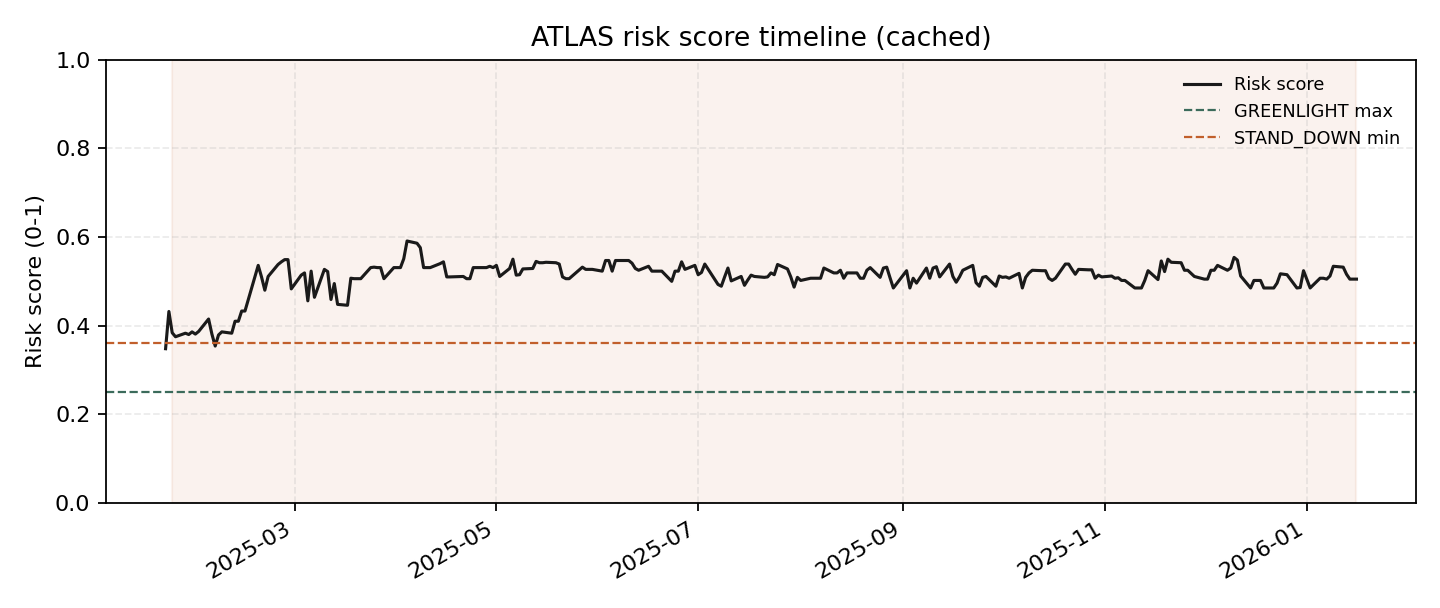
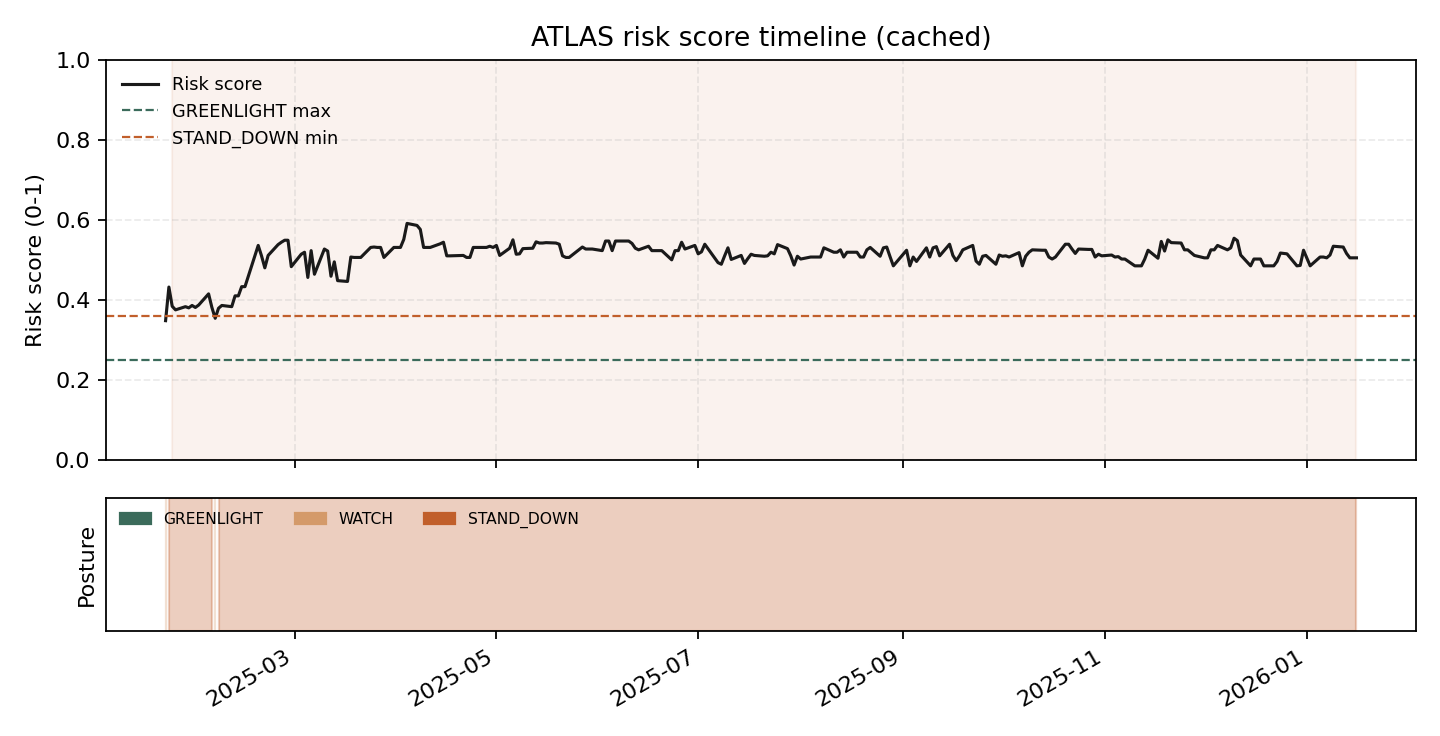
docs: show ML workflow and agent outputs

diff --git a/frontend/src/App.tsx b/frontend/src/App.tsx
@@ -189,12 +189,17 @@ const FIGURES = [
   {
     title: 'SPY close (cached)',
     src: '/figures/spy_close.png',
-    caption: 'Matplotlib snapshot generated from cached OHLCV data.',
+    caption: 'Matplotlib candlesticks generated from cached OHLCV data.',
   },
   {
     title: 'Risk score timeline',
     src: '/figures/risk_scores.png',
     caption: 'Aggregated risk score with GREENLIGHT/WATCH/STAND_DOWN thresholds.',
+  },
+  {
+    title: 'Agent risk lenses',
+    src: '/figures/agent_scores.png',
+    caption: 'Top agent score traces showing which lenses drive uncertainty over time.',
   },
 ];
 
@@ -500,6 +505,11 @@ function App() {
                 <p>{agent.focus}</p>
               </div>
             ))}
+          </div>
+
+          <div className="margin-note">
+            Research note: an optional ML lab can explore Qlib factors, RD-Agent discovery, and LLM parameter ideas
+            offline. These experiments are sandboxed and never used in the Track II demo.
           </div>
         </section>
 

diff --git a/scripts/generate_matplotlib_figures.py b/scripts/generate_matplotlib_figures.py
@@ -4,10 +4,11 @@ from __future__ import annotations
 import argparse
 import csv
 import json
+import math
 import os
 from datetime import datetime
 from pathlib import Path
-from typing import List, Tuple
+from typing import Dict, List, Tuple
 
 
 def _repo_root() -> Path:
@@ -26,8 +27,9 @@ def _parse_dt(value: str) -> datetime:
         return datetime.fromisoformat(v[:10])
 
 
-def _read_candles(path: Path) -> Tuple[List[datetime], List[float], List[float], List[float]]:
+def _read_candles(path: Path) -> Tuple[List[datetime], List[float], List[float], List[float], List[float]]:
     dates: List[datetime] = []
+    opens: List[float] = []
     highs: List[float] = []
     lows: List[float] = []
     closes: List[float] = []
@@ -41,24 +43,26 @@ def _read_candles(path: Path) -> Tuple[List[datetime], List[float], List[float],
                 continue
             try:
                 dates.append(_parse_dt(date))
+                opens.append(float(row.get("open", 0)))
                 highs.append(float(row.get("high", 0)))
                 lows.append(float(row.get("low", 0)))
                 closes.append(float(row.get("close", 0)))
             except ValueError:
                 continue
-    return dates, highs, lows, closes
+    return dates, opens, highs, lows, closes
 
 
-def _read_risk_scores(path: Path) -> Tuple[List[datetime], List[float], List[bool]]:
+def _read_risk_scores(path: Path) -> Tuple[List[datetime], List[float], List[bool], List[str]]:
     payload = json.loads(path.read_text())
     windows = payload.get("windows") or []
     if not windows:
-        return [], [], []
+        return [], [], [], []
     steps = windows[0].get("steps") or []
 
     dates: List[datetime] = []
     scores: List[float] = []
     stress_flags: List[bool] = []
+    labels: List[str] = []
     for step in steps:
         time = step.get("time")
         if not time:
@@ -71,9 +75,10 @@ def _read_risk_scores(path: Path) -> Tuple[List[datetime], List[float], List[boo
             dates.append(_parse_dt(time))
             scores.append(float(score))
             stress_flags.append(bool(step.get("is_stress")))
+            labels.append(str(quant.get("label", "")))
         except ValueError:
             continue
-    return dates, scores, stress_flags
+    return dates, scores, stress_flags, labels
 
 
 def _compress_stress_ranges(dates: List[datetime], flags: List[bool]) -> List[Tuple[datetime, datetime]]:
@@ -88,6 +93,61 @@ def _compress_stress_ranges(dates: List[datetime], flags: List[bool]) -> List[Tu
     if start is not None:
         ranges.append((start, dates[-1]))
     return ranges
+
+
+def _compress_label_ranges(
+    dates: List[datetime], labels: List[str]
+) -> List[Tuple[str, datetime, datetime]]:
+    ranges: List[Tuple[str, datetime, datetime]] = []
+    if not dates or not labels:
+        return ranges
+    current = labels[0]
+    start = dates[0]
+    for idx, label in enumerate(labels[1:], start=1):
+        if label != current:
+            ranges.append((current, start, dates[idx - 1]))
+            current = label
+            start = dates[idx]
+    ranges.append((current, start, dates[-1]))
+    return ranges
+
+
+def _read_agent_scores(path: Path) -> Tuple[List[datetime], Dict[str, List[float]]]:
+    payload = json.loads(path.read_text())
+    windows = payload.get("windows") or []
+    if not windows:
+        return [], {}
+    steps = windows[0].get("steps") or []
+
+    dates: List[datetime] = []
+    agent_scores: Dict[str, List[float]] = {}
+    nan = float("nan")
+
+    for step in steps:
+        time = step.get("time")
+        if not time:
+            continue
+        quant = step.get("quant_team") or {}
+        agents = quant.get("agents") or {}
+
+        try:
+            dates.append(_parse_dt(time))
+        except ValueError:
+            continue
+
+        # Extend existing series with NaN for this step
+        for name in agent_scores:
+            agent_scores[name].append(nan)
+
+        idx = len(dates) - 1
+        for name, meta in agents.items():
+            if name not in agent_scores:
+                agent_scores[name] = [nan] * idx
+                agent_scores[name].append(nan)
+            val = meta.get("score")
+            agent_scores[name][idx] = float(val) if val is not None else nan
+
+    return dates, agent_scores
 
 
 def main() -> int:
@@ -120,37 +180,79 @@ def main() -> int:
     matplotlib.use("Agg")
     import matplotlib.dates as mdates
     import matplotlib.pyplot as plt
+    from matplotlib.patches import Patch, Rectangle
 
     price_csv = Path(args.price_csv)
     eval_json = Path(args.eval_json)
     output_dir = Path(args.output_dir)
     output_dir.mkdir(parents=True, exist_ok=True)
 
-    dates, highs, lows, closes = _read_candles(price_csv)
+    dates, opens, highs, lows, closes = _read_candles(price_csv)
     if args.max_rows and len(dates) > args.max_rows:
         dates = dates[-args.max_rows :]
+        opens = opens[-args.max_rows :]
         highs = highs[-args.max_rows :]
         lows = lows[-args.max_rows :]
         closes = closes[-args.max_rows :]
 
     if dates:
         fig, ax = plt.subplots(figsize=(9, 3.8))
-        ax.fill_between(dates, lows, highs, color="#c15f2b", alpha=0.12, label="Daily range")
-        ax.plot(dates, closes, color="#3b6b5b", linewidth=1.6, label="Close")
-        ax.set_title("SPY closing price (cached)")
+        x = mdates.date2num(dates)
+        width = 0.6
+        up = "#3b6b5b"
+        down = "#c15f2b"
+
+        for idx, x_i in enumerate(x):
+            open_v = opens[idx]
+            close_v = closes[idx]
+            high_v = highs[idx]
+            low_v = lows[idx]
+            color = up if close_v >= open_v else down
+
+            ax.vlines(x_i, low_v, high_v, color=color, linewidth=1.0)
+            rect_y = min(open_v, close_v)
+            rect_h = abs(close_v - open_v)
+            if rect_h == 0:
+                rect_h = max(0.02, 0.001 * max(1.0, open_v))
+            ax.add_patch(
+                Rectangle(
+                    (x_i - width / 2, rect_y),
+                    width,
+                    rect_h,
+                    facecolor=color,
+                    edgecolor=color,
+                    alpha=0.85,
+                )
+            )
+
+        ax.set_title("SPY candlestick chart (cached)")
         ax.set_ylabel("Price")
         ax.grid(True, linestyle="--", alpha=0.25)
         ax.xaxis.set_major_formatter(mdates.DateFormatter("%Y-%m"))
         fig.autofmt_xdate()
-        ax.legend(frameon=False, fontsize=8)
+        ax.legend(
+            handles=[
+                Patch(facecolor=up, edgecolor=up, label="Up day"),
+                Patch(facecolor=down, edgecolor=down, label="Down day"),
+            ],
+            frameon=False,
+            fontsize=8,
+        )
         fig.tight_layout()
         fig.savefig(output_dir / "spy_close.png", dpi=160)
         plt.close(fig)
 
     if eval_json.exists():
-        risk_dates, scores, stress_flags = _read_risk_scores(eval_json)
+        risk_dates, scores, stress_flags, labels = _read_risk_scores(eval_json)
         if risk_dates:
-            fig, ax = plt.subplots(figsize=(9, 3.8))
+            fig, (ax, ax2) = plt.subplots(
+                2,
+                1,
+                figsize=(9, 4.6),
+                sharex=True,
+                gridspec_kw={"height_ratios": [3, 1]},
+            )
+
             ax.plot(risk_dates, scores, color="#1a1a1a", linewidth=1.4, label="Risk score")
             ax.axhline(0.25, color="#3b6b5b", linestyle="--", linewidth=1.0, label="GREENLIGHT max")
             ax.axhline(0.36, color="#c15f2b", linestyle="--", linewidth=1.0, label="STAND_DOWN min")
@@ -162,12 +264,75 @@ def main() -> int:
             ax.set_ylabel("Risk score (0-1)")
             ax.set_ylim(0, 1)
             ax.grid(True, linestyle="--", alpha=0.25)
-            ax.xaxis.set_major_formatter(mdates.DateFormatter("%Y-%m"))
+            ax.legend(frameon=False, fontsize=8, loc="upper left")
+
+            posture_colors = {
+                "GREENLIGHT": "#3b6b5b",
+                "WATCH": "#d49a6a",
+                "STAND_DOWN": "#c15f2b",
+            }
+            for label, start, end in _compress_label_ranges(risk_dates, labels):
+                color = posture_colors.get(label, "#999999")
+                ax2.axvspan(start, end, color=color, alpha=0.3)
+
+            ax2.set_ylim(0, 1)
+            ax2.set_yticks([])
+            ax2.set_ylabel("Posture")
+            ax2.grid(False)
+            ax2.legend(
+                handles=[
+                    Patch(facecolor=posture_colors["GREENLIGHT"], edgecolor=posture_colors["GREENLIGHT"], label="GREENLIGHT"),
+                    Patch(facecolor=posture_colors["WATCH"], edgecolor=posture_colors["WATCH"], label="WATCH"),
+                    Patch(facecolor=posture_colors["STAND_DOWN"], edgecolor=posture_colors["STAND_DOWN"], label="STAND_DOWN"),
+                ],
+                frameon=False,
+                fontsize=7,
+                loc="upper left",
+                ncol=3,
+            )
+
+            ax2.xaxis.set_major_formatter(mdates.DateFormatter("%Y-%m"))
             fig.autofmt_xdate()
-            ax.legend(frameon=False, fontsize=8)
             fig.tight_layout()
             fig.savefig(output_dir / "risk_scores.png", dpi=160)
             plt.close(fig)
+
+        agent_dates, agent_scores = _read_agent_scores(eval_json)
+        if agent_dates and agent_scores:
+            # Pick top agents by score variance (most dynamic).
+            variability: List[Tuple[str, float]] = []
+            for name, series in agent_scores.items():
+                values = [v for v in series if not math.isnan(v)]
+                if len(values) < 2:
+                    continue
+                avg = sum(values) / len(values)
+                var = sum((v - avg) ** 2 for v in values) / len(values)
+                variability.append((name, var))
+            top = [name for name, _ in sorted(variability, key=lambda x: x[1], reverse=True)[:5]]
+
+            if top:
+                fig, ax = plt.subplots(figsize=(9, 3.8))
+                palette = ["#3b6b5b", "#c15f2b", "#5c6f91", "#d2a650", "#7a5c8e"]
+
+                for idx, name in enumerate(top):
+                    ax.plot(
+                        agent_dates,
+                        agent_scores[name],
+                        linewidth=1.2,
+                        color=palette[idx % len(palette)],
+                        label=name,
+                    )
+
+                ax.set_title("Top agent risk lenses (cached)")
+                ax.set_ylabel("Agent score (0-1)")
+                ax.set_ylim(0, 1)
+                ax.grid(True, linestyle="--", alpha=0.25)
+                ax.xaxis.set_major_formatter(mdates.DateFormatter("%Y-%m"))
+                fig.autofmt_xdate()
+                ax.legend(frameon=False, fontsize=7, ncol=2)
+                fig.tight_layout()
+                fig.savefig(output_dir / "agent_scores.png", dpi=160)
+                plt.close(fig)
 
     print(f"Wrote figures to {output_dir}")
     return 0

diff --git a/README.md b/README.md
@@ -136,6 +136,16 @@ See `safety_ethics.md` for formal safety, ethics, and age-appropriate design com
 - `research/` contains optional Qlib/R&D experiments (not required for Track II)
 - Install extras with `python3 -m pip install -r requirements-research.txt`
 
+## Optional ML strategy lab (research-only)
+For transparency on the ML components, the repo includes a research-only
+strategy lab that backtests simple templates on cached data and can accept
+optional Qlib/RD-Agent/LLM parameter ideas. This is sandboxed and does not
+affect Track II outputs.
+
+```bash
+python3 research/strategy_lab.py --symbol SPY --asset-class equities
+```
+
 ## Repo map
 - `Agents/ATLAS_HYBRID/`: primary runnable demo (multi-agent risk desk, simulation-only)
 - `frontend/`: optional React + TypeScript UI

diff --git a/Team Authorized Narrative.md b/Team Authorized Narrative.md
@@ -33,6 +33,11 @@ ATLAS uses multiple small, interpretable agents rather than a black-box model. E
 
 The aggregation step prioritizes safety. Any high-risk veto can force STAND_DOWN. This mirrors real-world risk management and teaches caution over action.
 
+For teams that want to demonstrate ML workflows, ATLAS includes a research-only lab that can use
+Qlib factor models and an RD-Agent workflow (with an optional LLM) to propose and backtest
+strategy parameters on cached data. These experiments are sandboxed, offline, and not part of
+the Track II demo outputs.
+
 ## Data Sources and Caching
 ATLAS runs offline by default using cached CSVs in `data/` (schema: `date,open,high,low,close,volume`). The demo uses local files only, so the project is deterministic and judge-safe.
 
